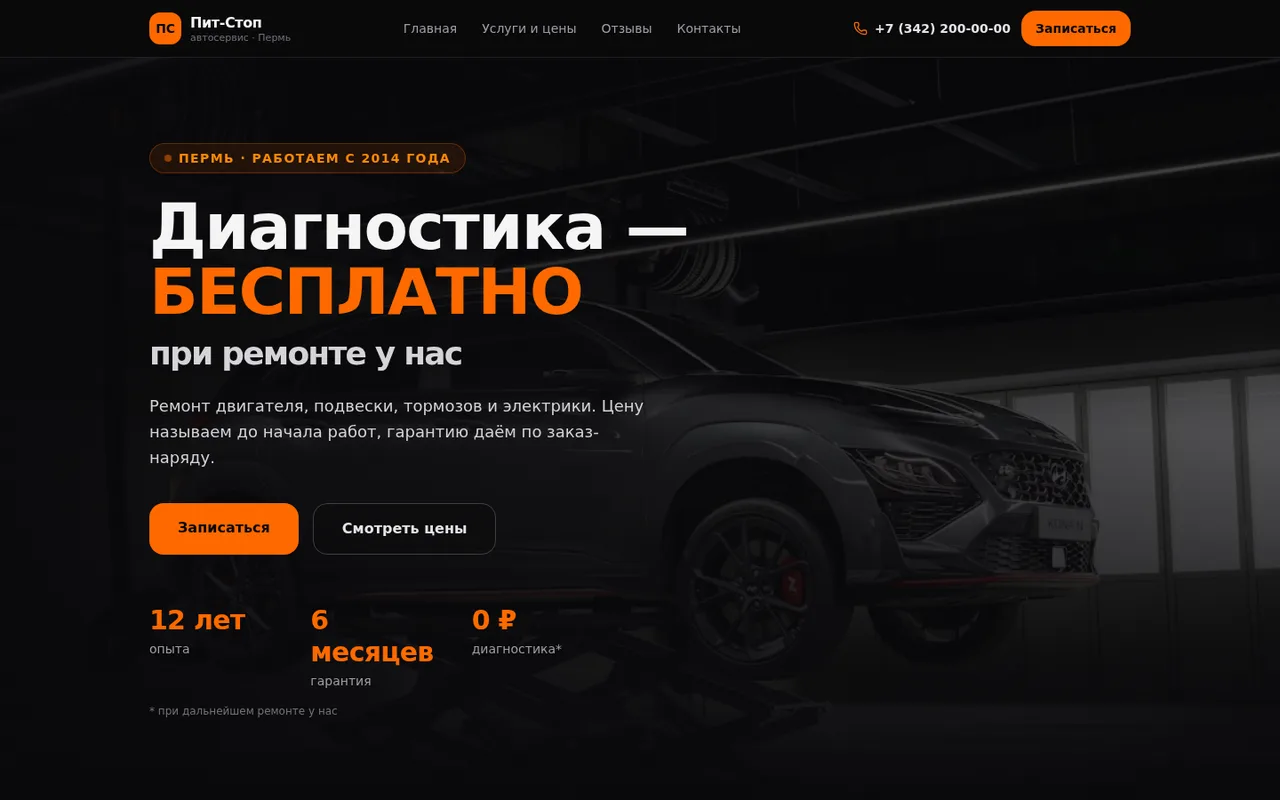
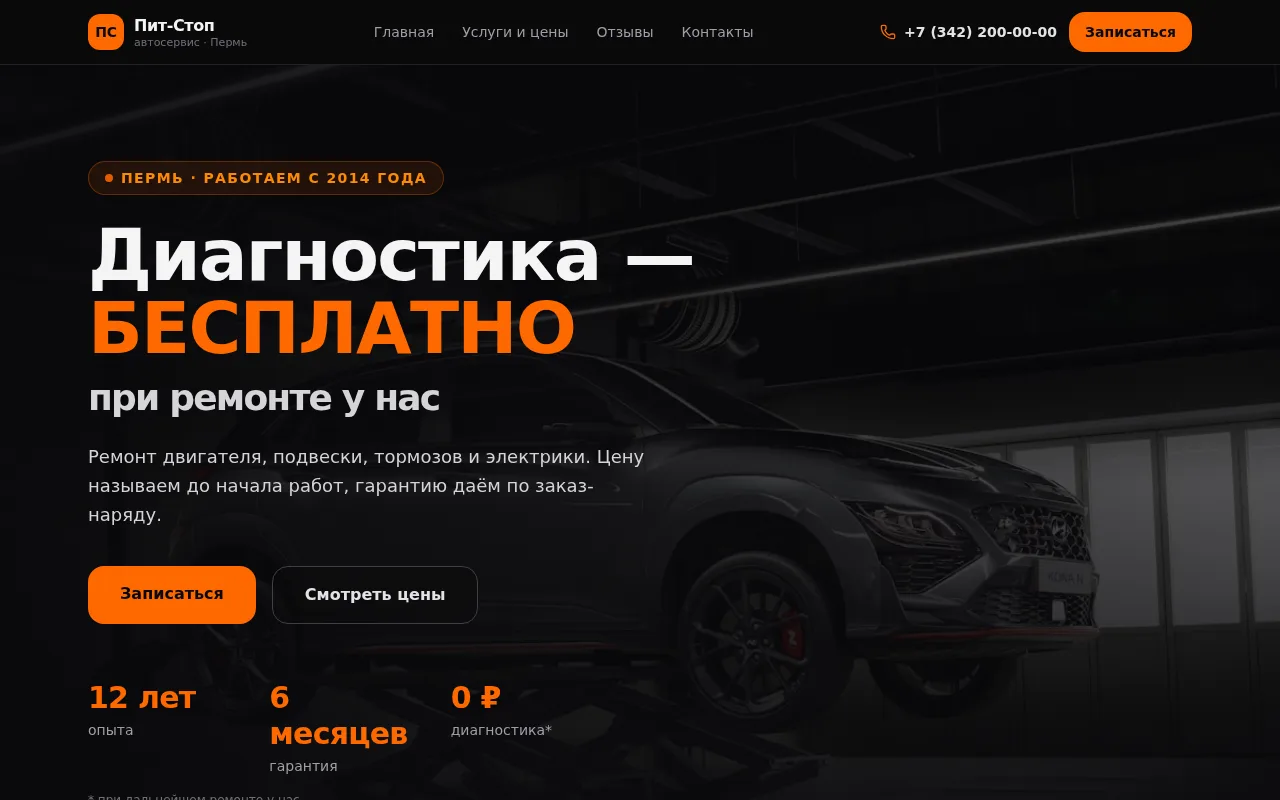
Портфолио: синхронизация с новым составом проектов на Vercel
- Старые проекты coffee/barber/auto/photo удалены — ссылки на новые
  zerno-coffee / britva-barbershop / autoservice-site / photographer-site
- Свежие скриншоты всех кейсов (включая обновлённые дизайны)
- +8-й кейс: Дикий крой (dikoy-kroy) — одежда малыми партиями
- Сетка теперь ровно 4+4

diff --git a/src/lib/data.ts b/src/lib/data.ts
@@ -146,8 +146,8 @@ const rawCases: RawCase[] = [
       "Лендинг спешелти-кофейни: меню и завтраки, галерея зала, отзывы с Яндекс Карт и бронирование столика онлайн.",
     tags: ["Next.js", "Tailwind", "Бронь онлайн"],
     image: "/portfolio/coffee.webp",
-    vercel: "https://coffee-hazel-tau.vercel.app",
-    domain: "https://coffee.kataevweb.ru",
+    vercel: "https://zerno-coffee-psi.vercel.app",
+    domain: "https://zerno.kataevweb.ru",
   },
   {
     title: "Барбершоп «Бритва»",
@@ -156,7 +156,7 @@ const rawCases: RawCase[] = [
       "Сайт барбершопа: прайс на услуги, карточки мастеров, отзывы клиентов и онлайн-запись в два клика.",
     tags: ["Next.js", "Tailwind", "Онлайн-запись"],
     image: "/portfolio/barber.webp",
-    vercel: "https://barber-six-beta.vercel.app",
+    vercel: "https://britva-barbershop-one.vercel.app",
     domain: "https://barber.kataevweb.ru",
   },
   {
@@ -166,7 +166,7 @@ const rawCases: RawCase[] = [
       "Лендинг автосервиса: акции, этапы ремонта, прайс по маркам авто и форма «перезвоним за 15 минут».",
     tags: ["Next.js", "SEO", "Заявки"],
     image: "/portfolio/auto.webp",
-    vercel: "https://auto-theta-hazel.vercel.app",
+    vercel: "https://autoservice-site.vercel.app",
     domain: "https://auto.kataevweb.ru",
   },
   {
@@ -176,7 +176,7 @@ const rawCases: RawCase[] = [
       "Сайт-портфолио фотографа: галерея работ, пакеты съёмки с ценами, FAQ и заявка на свободные даты.",
     tags: ["Next.js", "Галерея", "Пакеты цен"],
     image: "/portfolio/photo.webp",
-    vercel: "https://photo-three-bice.vercel.app",
+    vercel: "https://photographer-site-seven.vercel.app",
     domain: "https://photo.kataevweb.ru",
   },
   {
@@ -208,6 +208,16 @@ const rawCases: RawCase[] = [
     image: "/portfolio/cold.webp",
     vercel: "https://cold-studio-nu.vercel.app",
     domain: "https://cold.kataevweb.ru",
+  },
+  {
+    title: "Дикий крой",
+    kind: "Одежда · Малые партии",
+    description:
+      "Спортивная одежда ограниченными дропами: каталог с размерной сеткой, корзина, самовывоз в Перми и СДЭК по России.",
+    tags: ["Next.js", "Каталог", "Корзина"],
+    image: "/portfolio/kroy.webp",
+    vercel: "https://dikoy-kroy.vercel.app",
+    domain: "https://kroy.kataevweb.ru",
   },
 ];
 
